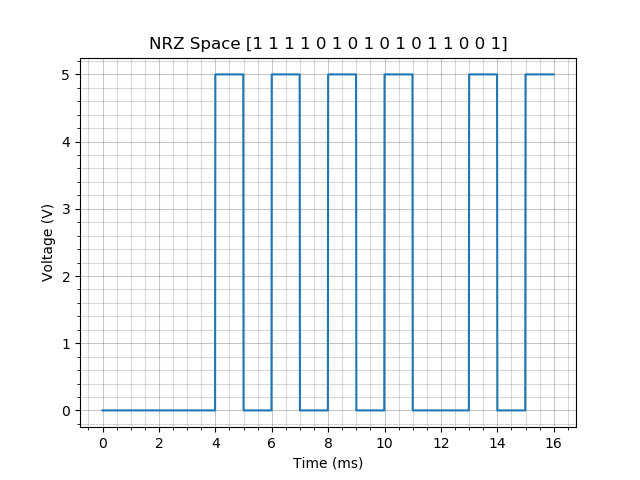
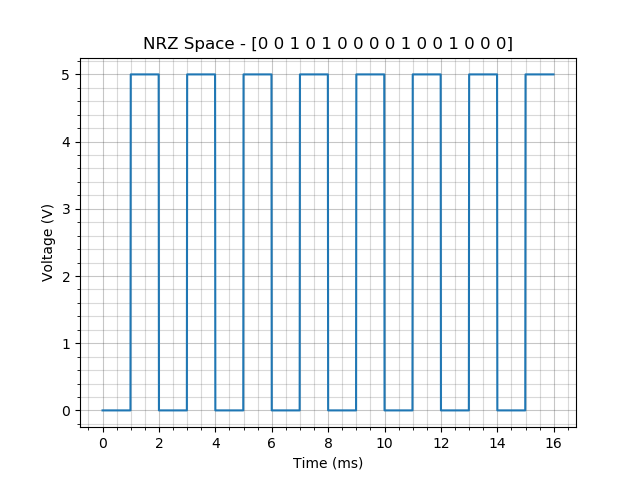
Update images

Changed region(s): [[0.1875, 0.0625, 0.8125, 0.875], [0.2812, 0.6562, 0.6875, 0.875]]

diff --git a/lineCodeScript.py b/lineCodeScript.py
@@ -11,20 +11,28 @@ print(bits)
 
 code= lc.unipolarNRZ(bits, step, Ts, True) # True to plot graphics
 print("unipolarNRZ",code)
+
 code = lc.unipolarRZ(bits, step, Ts, True) 
 print("unipolarRZ",code)
+
 code = lc.bipolarNRZ(bits, step, Ts, True) 
 print("bipolarNRZ",code)
+
 code = lc.bipolarRZ(bits, step, Ts, True) 
 print("bipolarRZ",code)
+
 code = lc.polarQuatNRZ(bits, step, Ts, True) 
 print("polarQuatNRZ",code)
+
 code = lc.NRZSpace(bits, step, Ts, True) 
 print("NRZSpace",code)
+
 code = lc.manchester(bits, step, Ts, True) 
 print("manchester",code)
+
 code = lc.hdb3(bits, step, Ts, True) 
 print("hdb3",code)
+
 code = lc.twob1q(bits, step, Ts, True) 
 print("twob1q",code)
 

diff --git a/lineCodeFunctions.py b/lineCodeFunctions.py
@@ -11,7 +11,7 @@ def bitsGen(size):
 def plotSignal(x,y,bits,title):
     fig = plt.figure()
     plt.subplot()
-    plt.title(title+" "+str(bits))
+    plt.title(title+" - "+str(bits))
     plt.plot(x, y)
     plt.xlabel('Time (ms)')
     plt.ylabel('Voltage (V)')
@@ -28,7 +28,7 @@ def pulseWaveform(step, bits, Ts, pulses, plot,title):
     sizeBits = len(bits)
 
     if sizeBits*2 == size: 
-        t = np.arange(0, size/2, step)
+        t = np.arange(0, size, step/2)
     else:
         t = np.arange(0, size, step)
 
